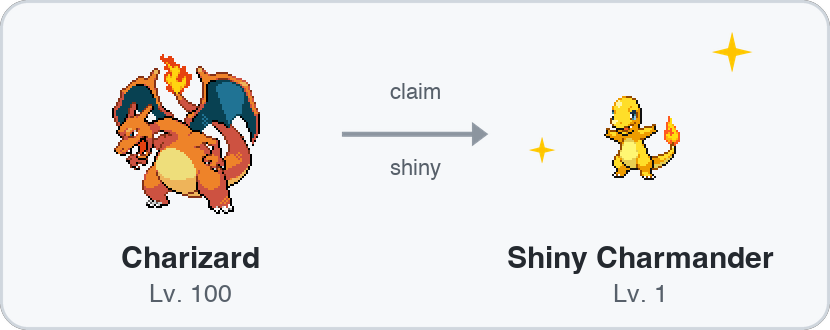
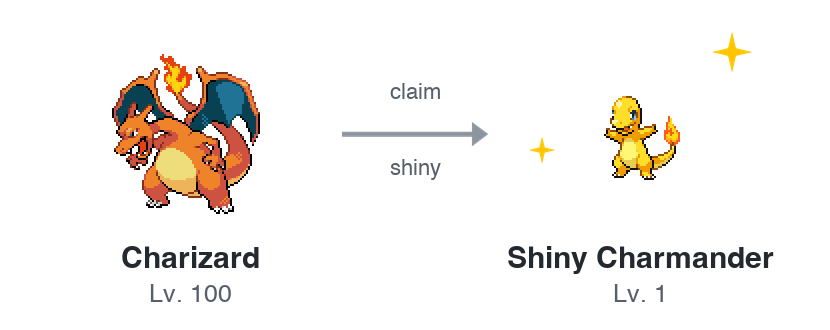
README: transparent shiny-reset image with light and dark variants

Changed region(s): [[0.0, 0.0, 0.994, 1.0], [0.994, 0.0303, 1.0, 0.9697]]

diff --git a/README.md b/README.md
@@ -79,7 +79,10 @@ The chain keeps going:
 When a Pokémon is at level 100, the next task you complete offers you the chance to **claim shiny**. Accept, and it goes back to **level 1 in its base form, permanently shiny**. Decline with "Not Yet" and you stay at level 100 until you're ready.
 
 <p align="center">
-  <img src="docs/images/shiny-reset.png" width="640" alt="A level 100 Charizard resets to a level 1 shiny Charmander">
+  <picture>
+    <source media="(prefers-color-scheme: dark)" srcset="docs/images/shiny-reset-dark.png">
+    <img src="docs/images/shiny-reset.png" width="640" alt="A level 100 Charizard resets to a level 1 shiny Charmander">
+  </picture>
 </p>
 
 This is a one-time reset for each Pokémon. You can also reset a Pokémon manually with the ↺ button in the header, or the whole collection from the PC Box (after confirming); a full reset adds a free **Choose your Starter!** task so you can hatch a new egg right away.
